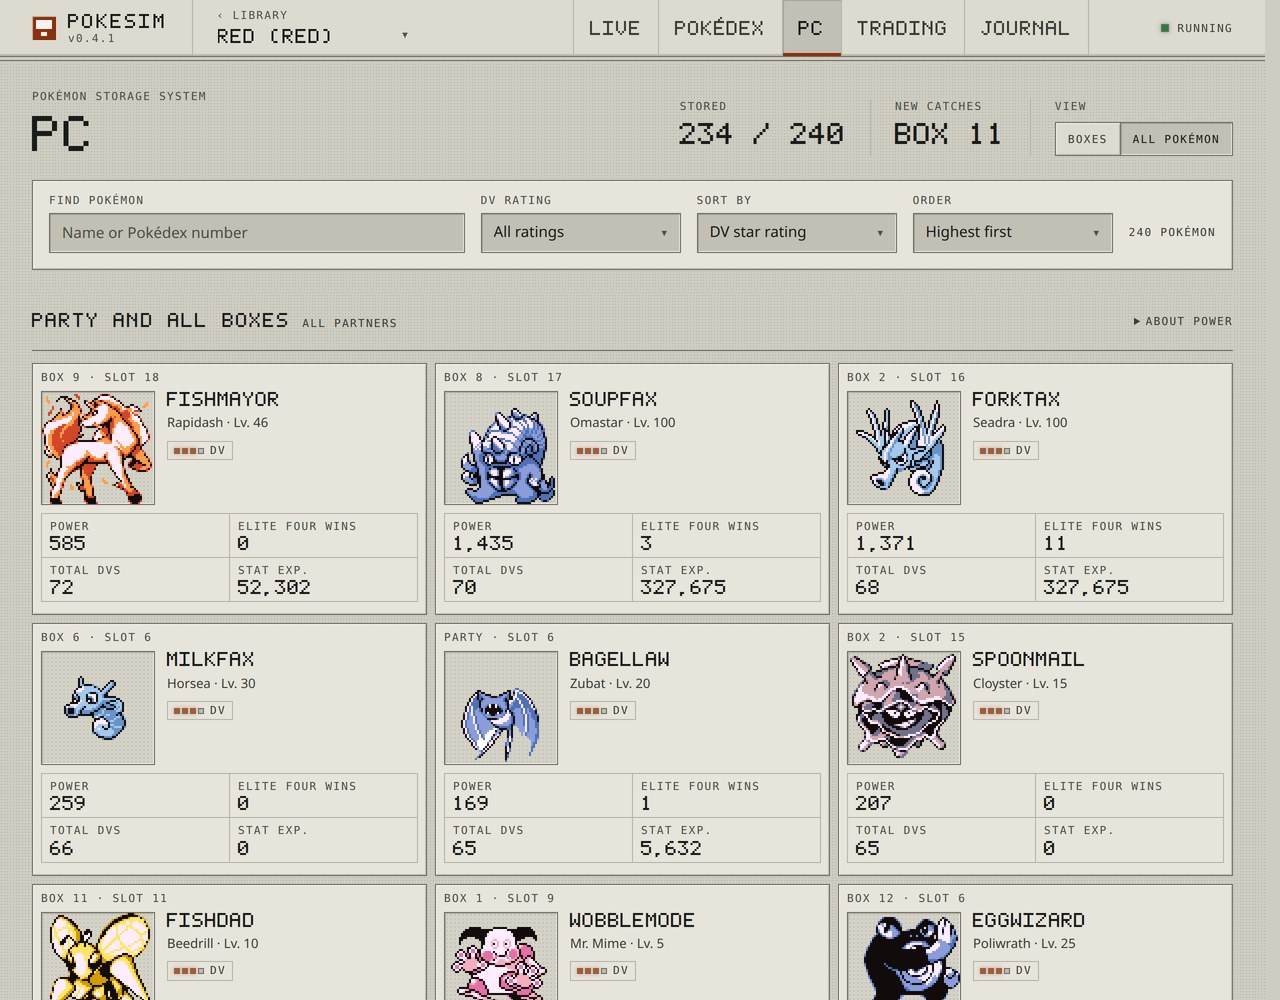
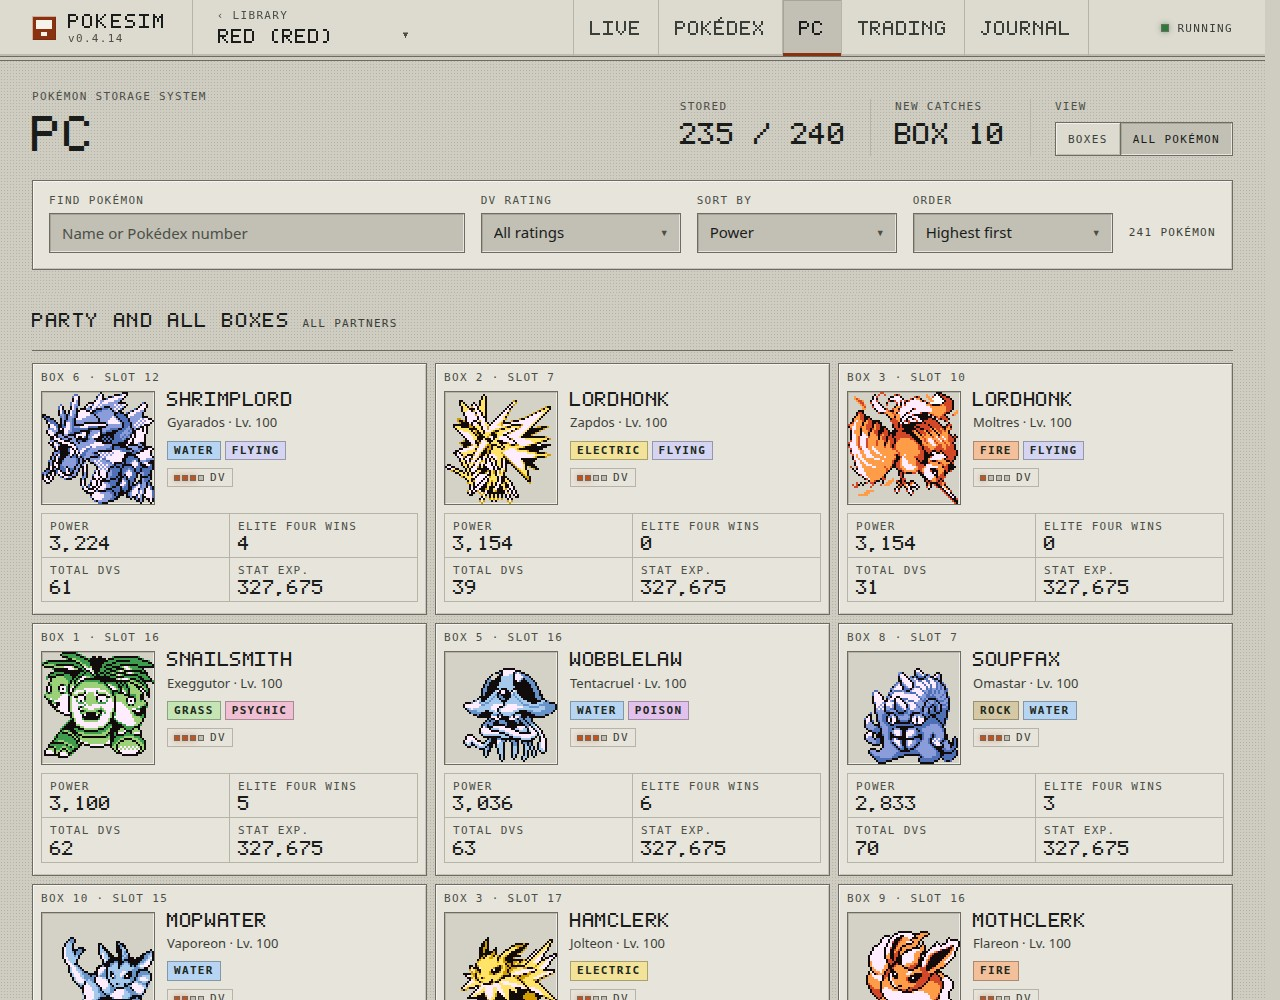
Refresh README figures for the current adventure views

diff --git a/README.md b/README.md
@@ -6,19 +6,28 @@ PokeSim plays Pokémon Red and Blue by itself, and you watch it happen in your b
 
 Fair warning: you will get attached to a Lapras named WOBBLECOP, and you will argue with its battle decisions.
 
-![PokeSim running Pokémon Red: the Champion battle, with the rival sending out Rhydon against a level 100 Lapras, six teammates with their HP, experience and levels, all eight badges, and the current plan along the bottom](docs/images/live-adventure.jpg)
+![The live Red adventure with all eight badges, the game screen, six teammates with colored type badges, and the current plan](docs/images/live-adventure.jpg)
 
-*The live adventure: the game, the team, and the plan (allegedly), all in one place. League rematch number 135, and WOBBLECOP has this one.*
+*The game, the team, and the plan (allegedly), all in one place. WOBBLECOP is still on the payroll.*
 
 ## What you get
 
 Battles, catches, evolutions and the slow march to the Pokémon League, with the current plan spelled out along the foot of the page: what it is doing, how that is going, and what comes next. Your six travelling companions sit beside the game with their health, experience and DV rating on the card, and one tap opens a partner's moves, remaining PP and battle stats. Keyboard and touch controls are there when you want to steer, and a speed dial from 0.5× up to Max when you want to skip ahead or slow down and actually watch a fight.
 
-The Journal has separate Entries and Stats pages. Entries records milestones with screenshots, including Pokémon exchanged in the Cable Club. Stats charts collection power, DV quality, catches, travel, battles, and marathon finishes alongside Pokédex and League progress. See the [adventure statistics guide](docs/adventure-statistics.md) for counting rules and long-term history. Journal entries are also available through a feed reader or phone notifications with [ntfy](https://ntfy.sh).
+The Journal has separate Entries and Stats pages. Entries records milestones with screenshots, including Pokémon exchanged in the Cable Club. Stats charts collection power, DV quality, catches, travel, battles, and marathon finishes alongside Pokédex and League progress. It also shows your marathon personal best and progress toward the next legendary return. See the [adventure statistics guide](docs/adventure-statistics.md) for counting rules and long-term history. Journal entries are also available through a feed reader or phone notifications with [ntfy](https://ntfy.sh).
 
-![The Journal: charts of the adventure's progress over its whole run, then the latest milestones, each with the game screenshot from the moment it happened](docs/images/journal.jpg)
+![Journal Entries with separate Entries and Stats tabs, a League reward gift, and recent Champion and Elite Four victories](docs/images/journal.jpg)
 
 *It keeps its own notes, so you can catch up on what you missed.*
+
+<details>
+<summary><strong>See the adventure stats</strong></summary>
+
+![Journal Stats showing Pokédex and League history, progress toward returning legendary encounters, an 11:58 marathon personal best, and collection power trends](docs/images/adventure-stats.jpg)
+
+*An entire Pokédex, a faster marathon, and a stronger collection. There is always another number to improve.*
+
+</details>
 
 Open the Library, choose **Notifications**, generate a topic and subscribe to it in the ntfy app. There is no account and nothing to edit. After the Hall of Fame it keeps going, working on collection, training and evolution projects.
 
@@ -28,18 +37,18 @@ It decides everything locally with ordinary game logic. No model API key, no sub
 
 Browse all 151 Kanto entries, search by name or type, and see who's registered, who's only been spotted, and who's still out there somewhere. Fill it and the counts keep going: how many have reached level 100, and how many turned out to be perfect.
 
-![The Pokédex showing 149 of 151 registered and 150 seen, 2,232 catches, level 100 and perfect find counts, search and filter options, and the original Kanto starters](docs/images/pokedex.jpg)
+![The Pokédex showing all 151 species registered, 137 species trained to level 100, catch counts, DV milestones, and colored type badges](docs/images/pokedex.jpg)
 
-*Two short of a full Pokédex, 111 species at level 100, and not one perfect catch yet. One more reason to check back.*
+*All 151 registered, 137 species at level 100, and still looking for that perfect catch.*
 
-The PC searches your party and every box at once, sorts by DV rating, and shows each partner's stats and training. Four stars means perfect DVs.
+The PC searches your party and every box at once. All Pokémon starts with the strongest partners first, with other sort options and DV filters when you want to find a promising trainee. Four stars means perfect DVs.
 
 <details>
 <summary><strong>Look inside the PC</strong></summary>
 
-![PC storage searching the party and every box at once, sorted by DV star rating with the best first](docs/images/pc-storage.jpg)
+![All Pokémon in the PC, sorted by power with colored types, DV ratings, and partners from the party and every box](docs/images/pc-storage.jpg)
 
-*Two hundred and forty partners across the party and every box, sorted by DV rating. Yes, the Mr. Mime is called WOBBLEMODE.*
+*Your strongest partners up front, with the next promising trainee waiting somewhere in the boxes.*
 
 </details>
 
@@ -120,6 +129,6 @@ Portraits come out of your own cartridge. When you add a ROM, PokeSim decodes al
 sprites from it and keeps them in the application's `assets/sprites` folder, so the Pokédex
 and the PC are illustrated without you finding artwork anywhere. Nothing is shipped and nothing
 is fetched for this. Drop your own `1.png` through `151.png` in that folder to override any of
-them; a file that is already there is never replaced.
+them. A file that is already there is never replaced.
 
 AI coding assistance was used while building and testing this. The automatic player itself is plain local rules, not a model. See [third-party notices](THIRD_PARTY_NOTICES.md) and [dependency licensing](docs/licensing.md).

diff --git a/docs/images/README.md b/docs/images/README.md
@@ -1,29 +1,28 @@
 # README screenshots
 
-Captured September 24, 2026 from a running Red adventure (eight badges, 149 of 151 registered,
-135 League wins, 1,391 game hours, 240 partners across the party and twelve boxes). These are
-browser screenshots of actual game state, not mockups or generated art. The live simulation
-continued running during capture, so the views are a few minutes apart.
+Captured September 27, 2026 from a running Red adventure with all eight badges,
+151 species registered, 137 species recorded at level 100, and more than 2,200
+game hours. These are browser screenshots of actual game state, not mockups or
+generated art. The owner approved using these game views in the public README.
+The simulation was running for the final captures, so the views are a few minutes apart.
 
-Captured at a 1280 pixel viewport and twice that pixel density, then halved, so the Game Boy
-screen and the portraits stay sharp. The viewer stops fetching frames for a hidden tab on
-purpose, so `document.hidden` was overridden for the live shot and the page then loaded its own
-frames as usual. The run was at Max speed, where the frame on screen trails the battle label by a
-moment, so a live shot was kept only when the label read the same before and after it was taken.
+Captured at a 1280 pixel viewport in the light theme, at native pixel density.
+The browser saved JPEGs at quality 90. Taller views include complete panels.
+The PC uses the actual All Pokémon control and its default power sorting.
 
 | File | View |
 | --- | --- |
-| `live-adventure.jpg` | The Champion battle, six teammates with HP, experience and DV ratings, and the plan across the foot |
-| `journal.jpg` | The road so far, then the latest highlights, each with its own screenshot |
-| `pokedex.jpg` | Registered, seen, total caught, level 100 and perfect find counts, and the first species rows |
-| `pc-storage.jpg` | Party and all boxes, sorted by DV star rating with the best first |
+| `live-adventure.jpg` | Game screen, six partners with colored types, and the current plan |
+| `journal.jpg` | Entries and Stats tabs, a League reward gift, and recent victories |
+| `adventure-stats.jpg` | Progress history, legendary return countdown, marathon records, and collection strength |
+| `pokedex.jpg` | Species milestones, catch totals, DV records, and colored types |
+| `pc-storage.jpg` | All Pokémon across the party and every box, sorted by power |
 
-Only the JPEGs are kept. The README embeds these files directly, so an unreferenced PNG of the
-same view is weight in the source package for nothing.
+Only the JPEGs are kept. The README embeds these files directly.
+Portraits are decoded from the supplied ROM. Retake against a library whose
+Pokédex shows those sprites, not numbered placeholders.
 
-Portraits are decoded from your own ROM when it is added (see Odds and ends in the main README).
-Retake against a library whose Pokédex shows those sprites, not numbered placeholders.
-
-Keep screenshots free of browser chrome, local file paths, credentials, and private
-settings. Use actual interface controls to choose a view without altering game state.
-Keep images in the source package so the README also works in downloaded source.
+Keep screenshots free of browser chrome, local file paths, credentials, and
+private settings. Use actual interface controls to choose a view without
+altering game data. Keep images in the source package so the README also works
+in downloaded source.
